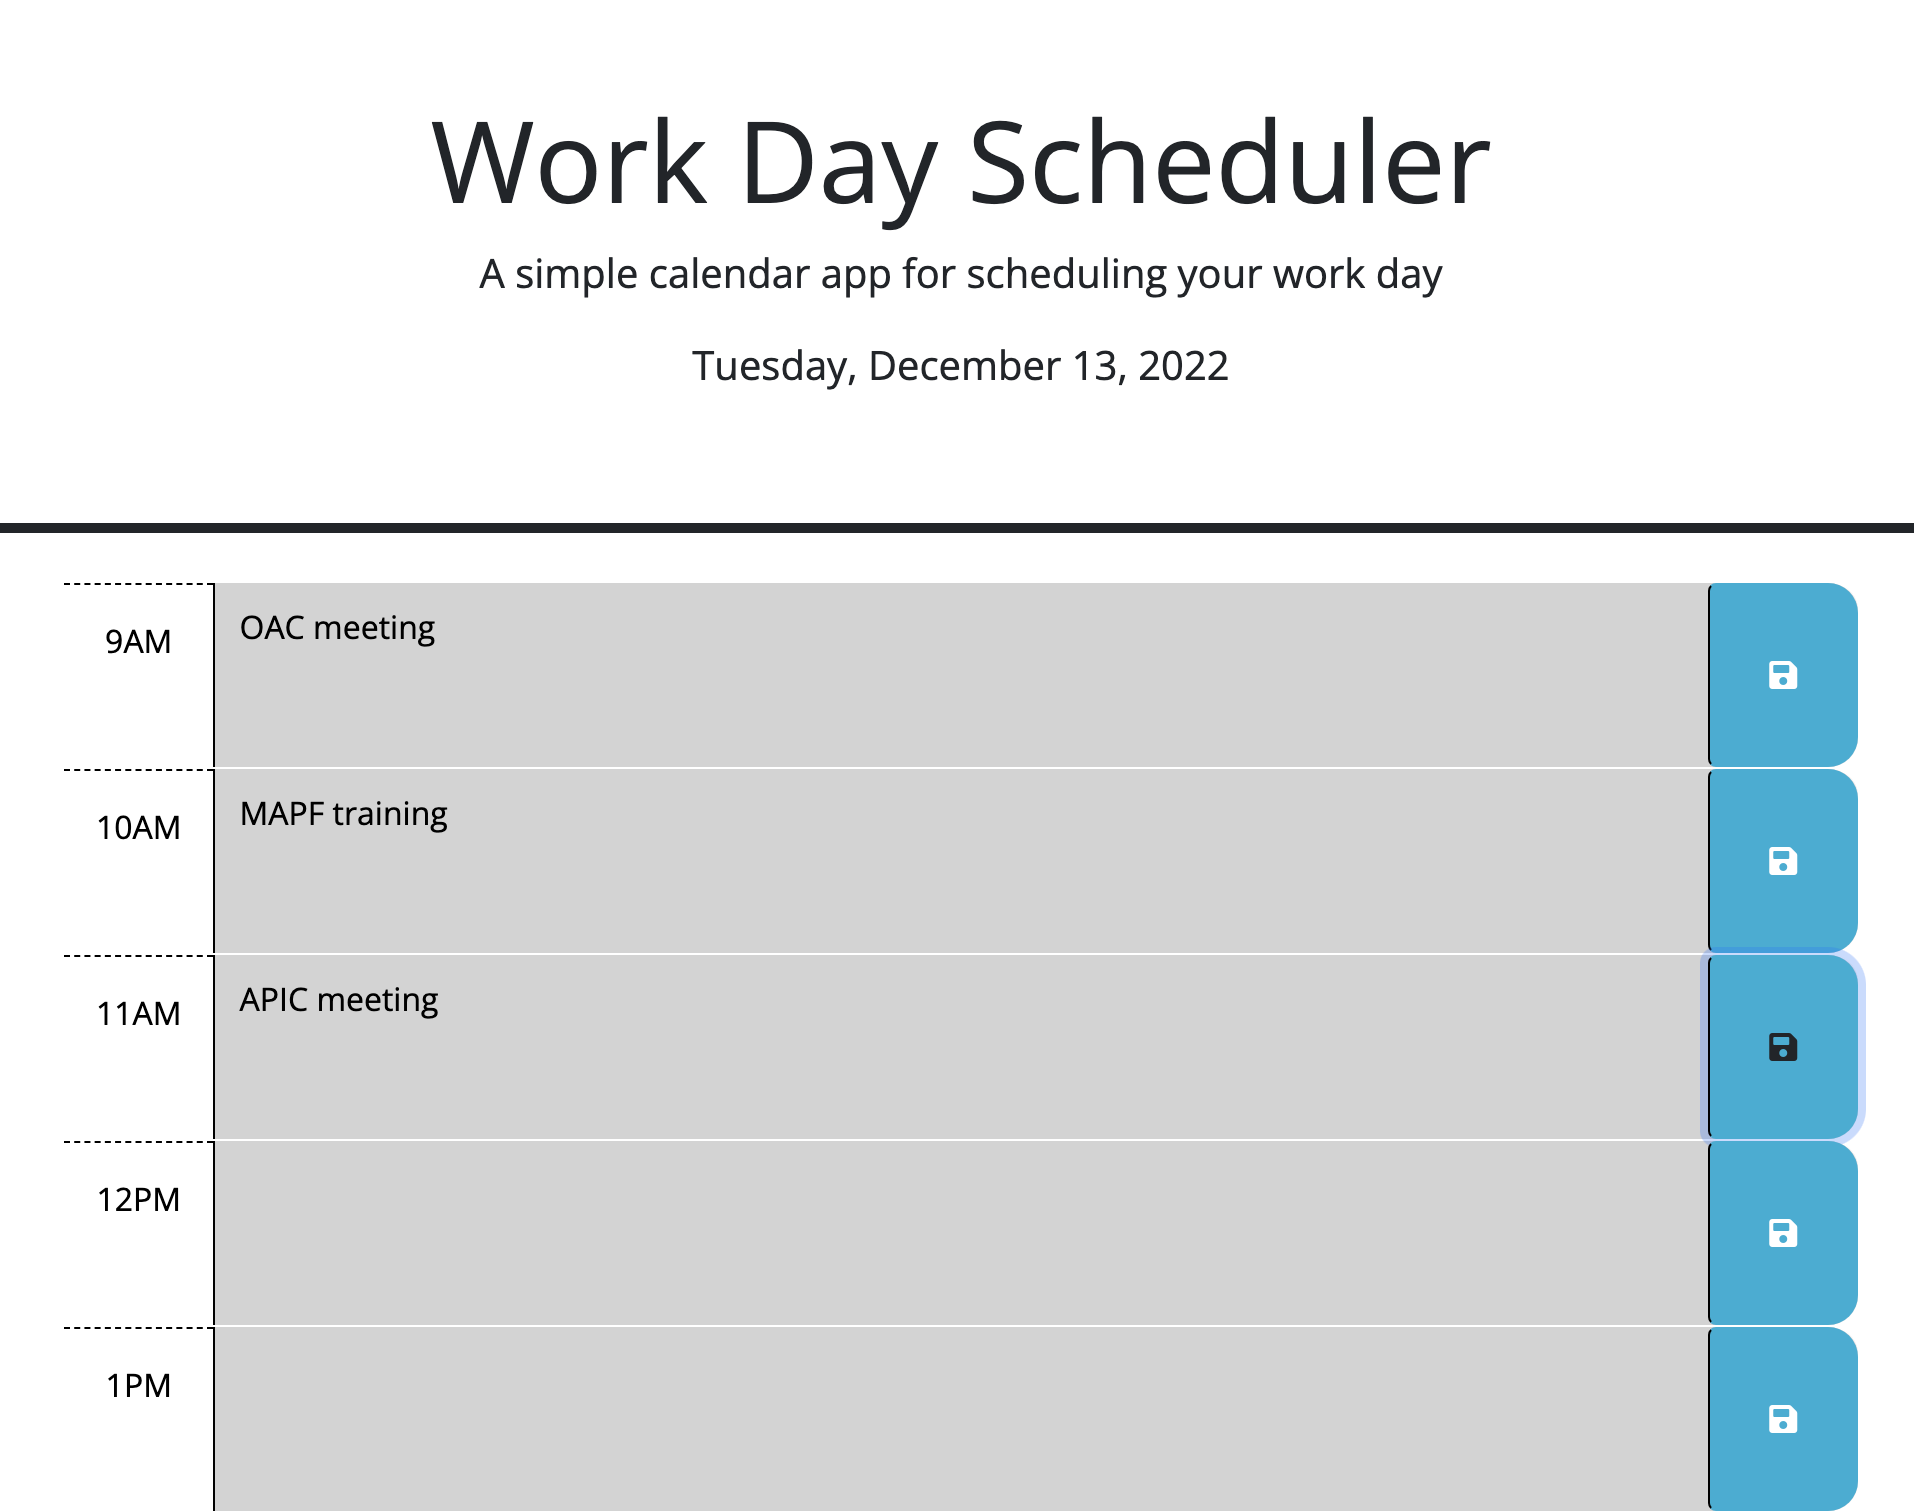
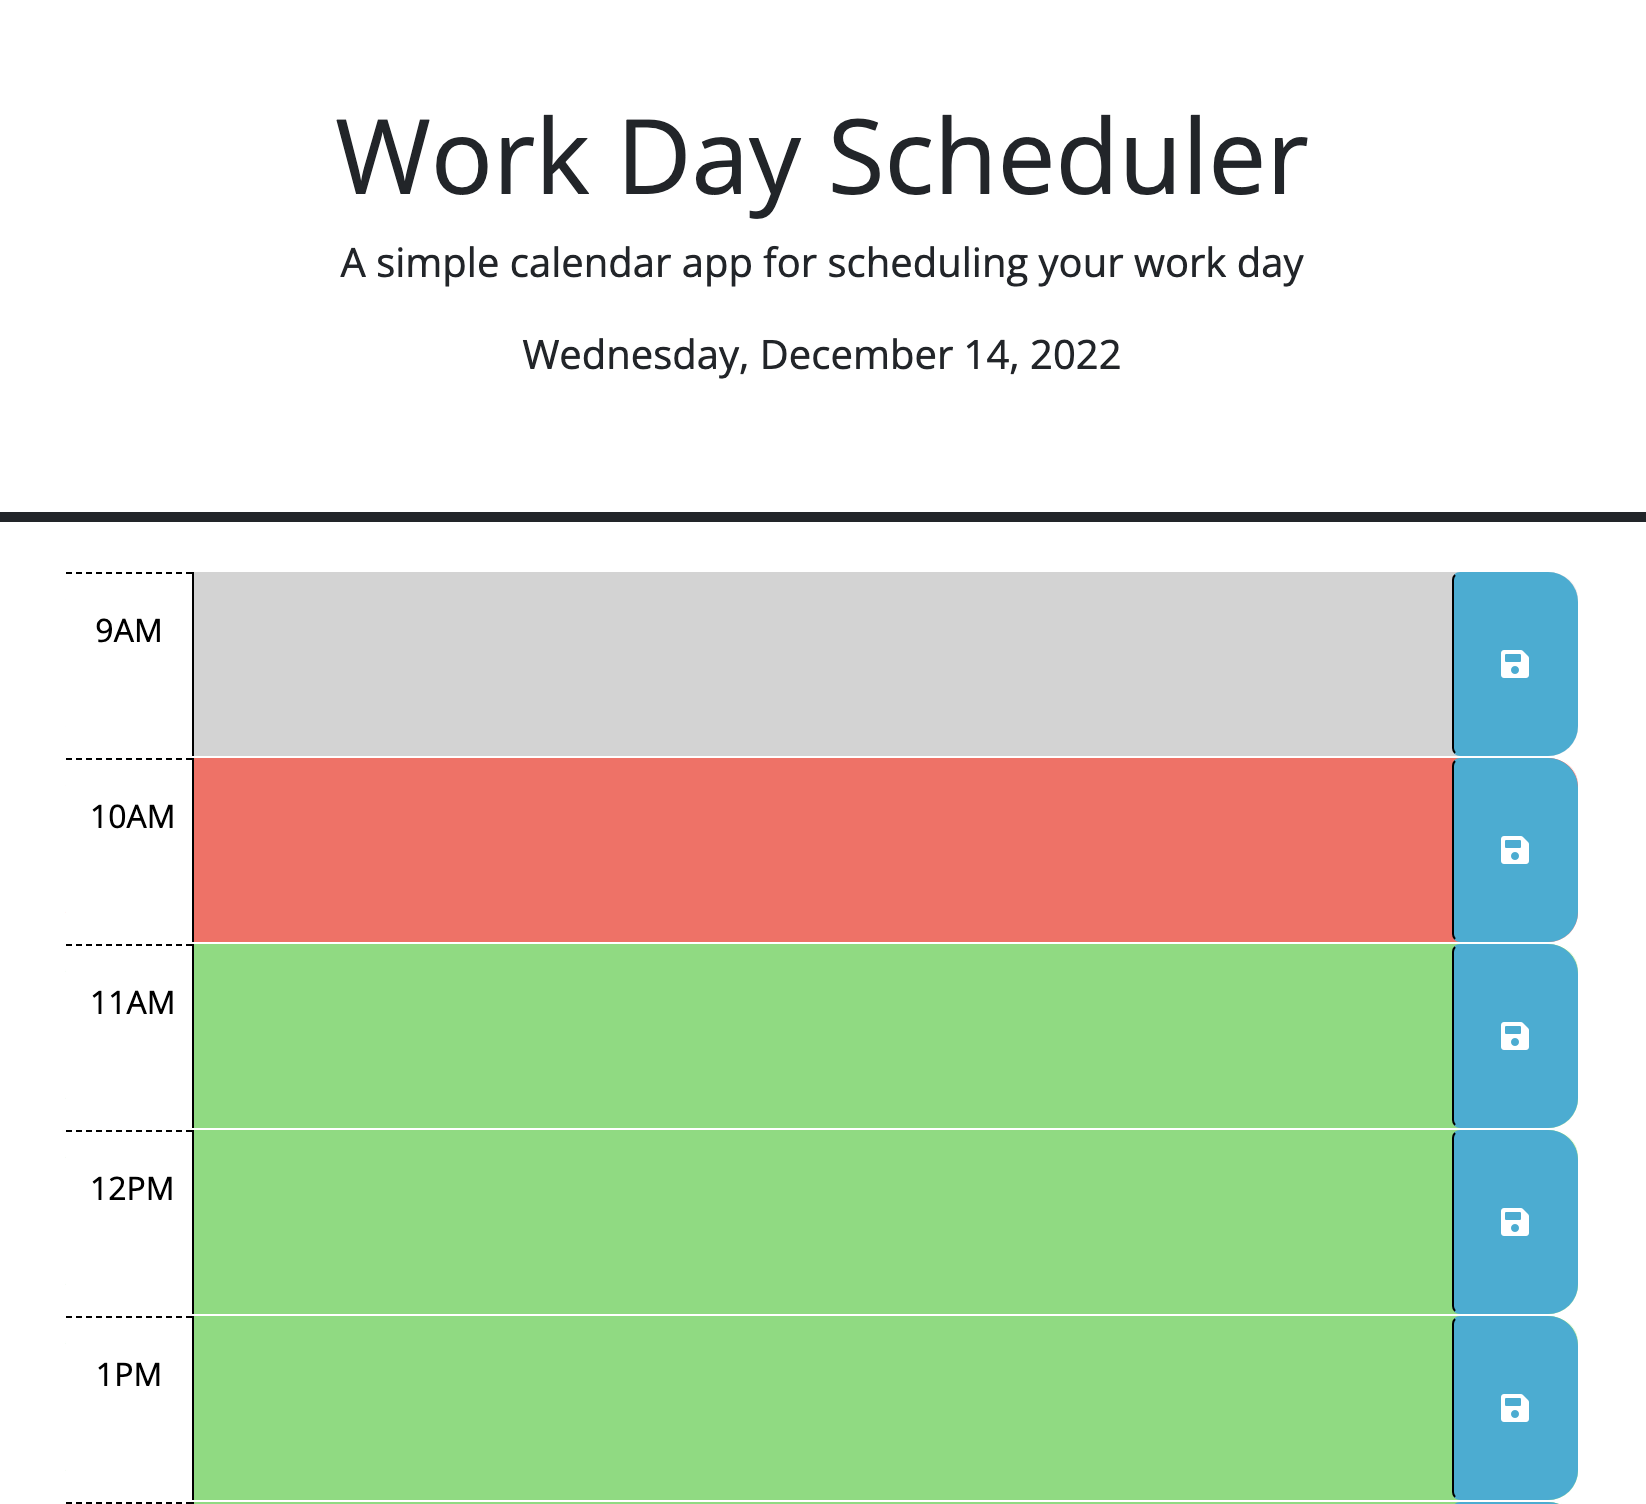
updated screenshot with 3 colors

diff --git a/README.md b/README.md
@@ -19,10 +19,14 @@ https://lzh1990214.github.io/Work-Day-Scheduler/
 
 ## Screenshots
 
-Home page displaying current time and allowing user to enter event in each time block:
+Home page displaying current time and past, present and future time blocks with colors:
 
-![Main page with a red 'start" button.](./Assets/S1.png)
+![Main page](./Assets/S1.png)
 
-Each event text is saved in local storage as value with associated hour as key:
+Home page allowing user to enter event in each time block and save the input with buttons:
 
-![Main page with a red 'start" button.](./Assets/S2.png)
+![Main page with user input](./Assets/S2.png)
+
+Each event text can be saved in local storage as value with associated hour as key:
+
+![local storage.](./Assets/S3.png)
